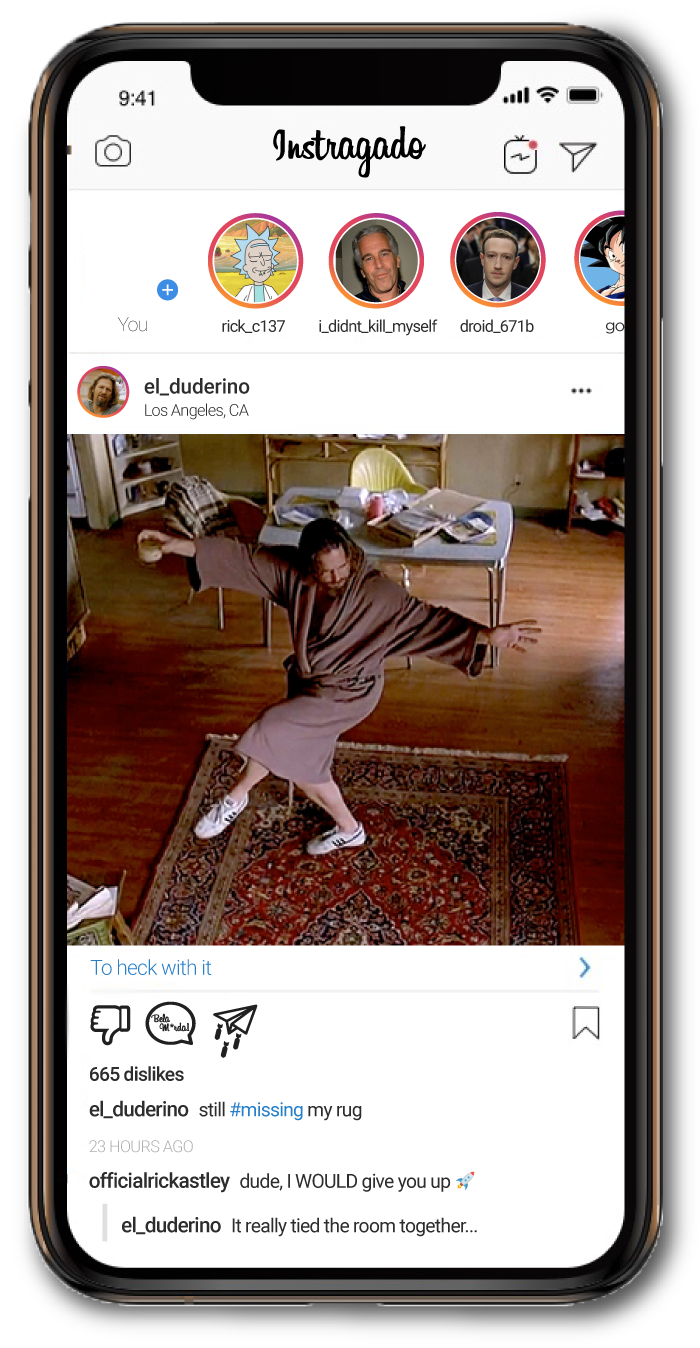
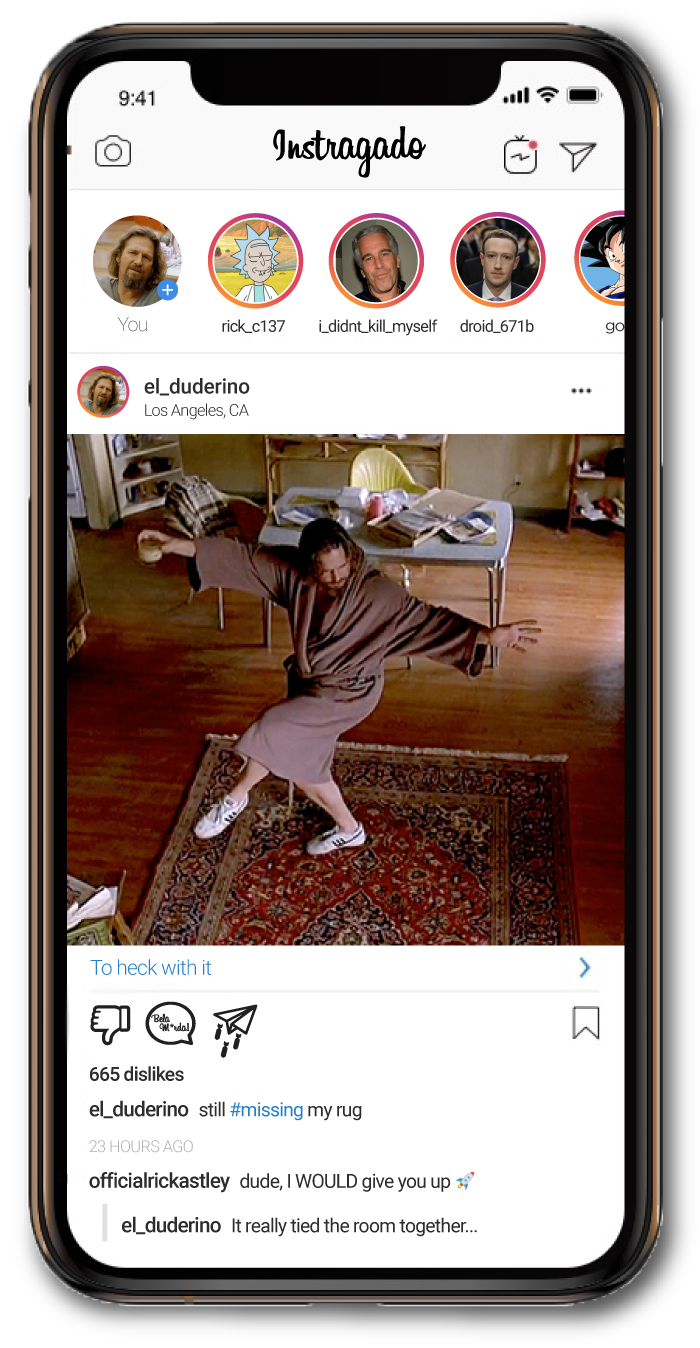
Img phone correction

Changed region(s): [[0.12, 0.1558, 0.27, 0.2493]]

diff --git a/README.md b/README.md
@@ -8,7 +8,7 @@ A rede social que lhe permite fazer tudo que você realmente gostaria de fazer n
 
 IMPORTANTE: A rede social **Instragado** é somente um **projeto de aprendizado** criativo. Não tenho nada contra a rede social Instagram, e esse site foi criado no intuito de testar minhas poucas habilidades em HTML/CSS. Guarde seus *trash comments* para quando a rede estiver online! :ok_hand: (Nunca, no caso)
 
-Espero que tenha gostado :D
+Espero que tenha gostado! :D
 
 ----------------------
 
